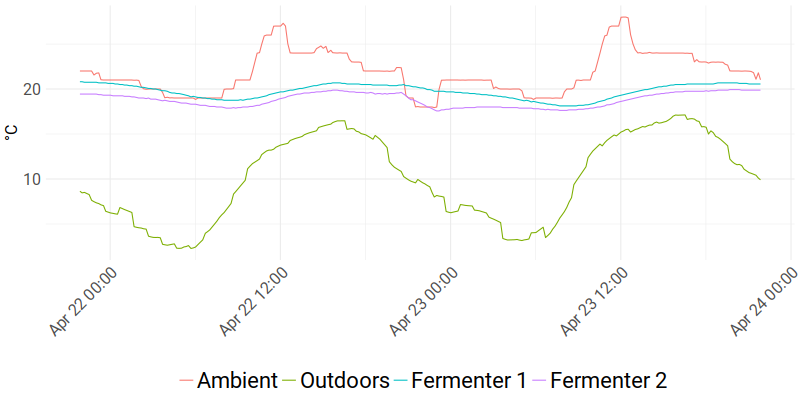
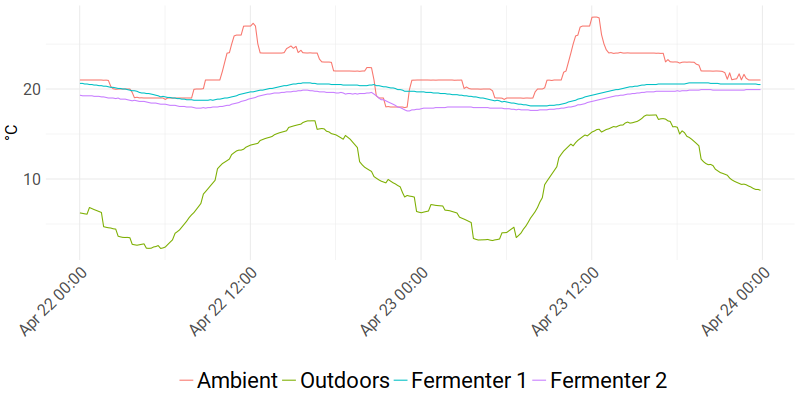
Update live temperature on site

diff --git a/temperature.js b/temperature.js
@@ -1,1 +1,1 @@
-document.write("<h4>Inside Temperature: 21.03°C</h4><h4>Outside Temperature: 9.91°C</h4><h4>Fermenter 1 Temperature: 20.56°C</h4><h4>Fermenter 2 Temperature: 19.88°C</h4><h4>Inside Humidity: 18.03%</h4><h4>Outside Humidity: 34.0%</h4><br>Last update: 2018-04-23 21:50:53");
+document.write("<h4>Inside Temperature: 21.0°C</h4><h4>Outside Temperature: 8.74°C</h4><h4>Fermenter 1 Temperature: 20.5°C</h4><h4>Fermenter 2 Temperature: 19.94°C</h4><h4>Inside Humidity: 18.0%</h4><h4>Outside Humidity: 36.0%</h4><br>Last update: 2018-04-23 23:51:50");
